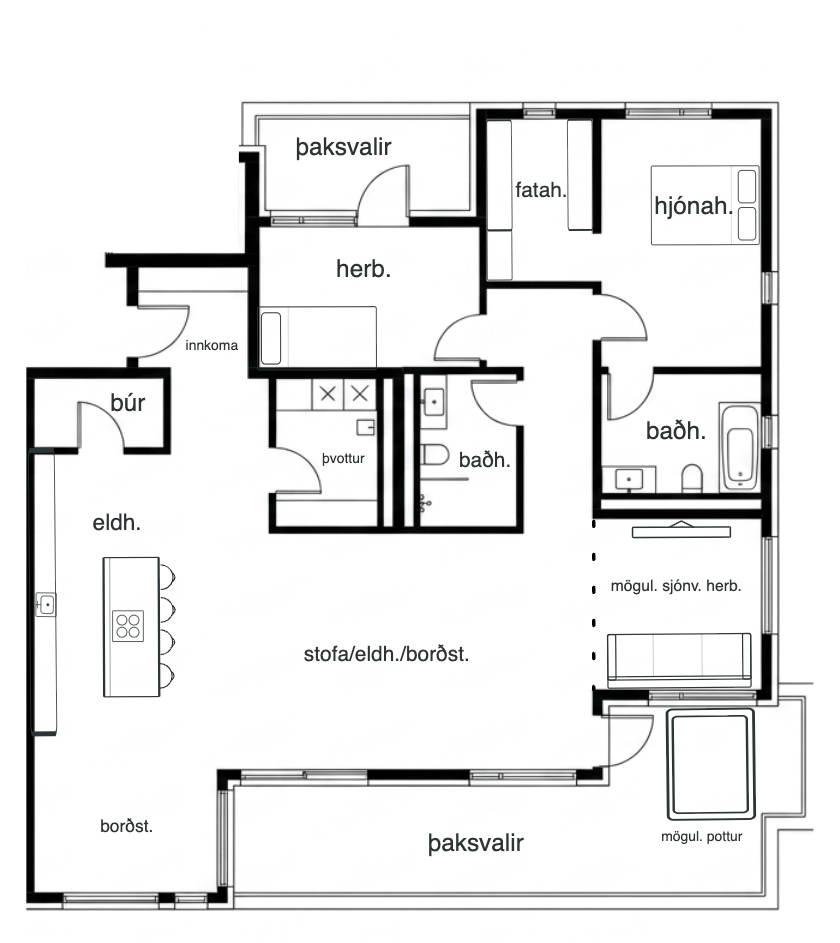
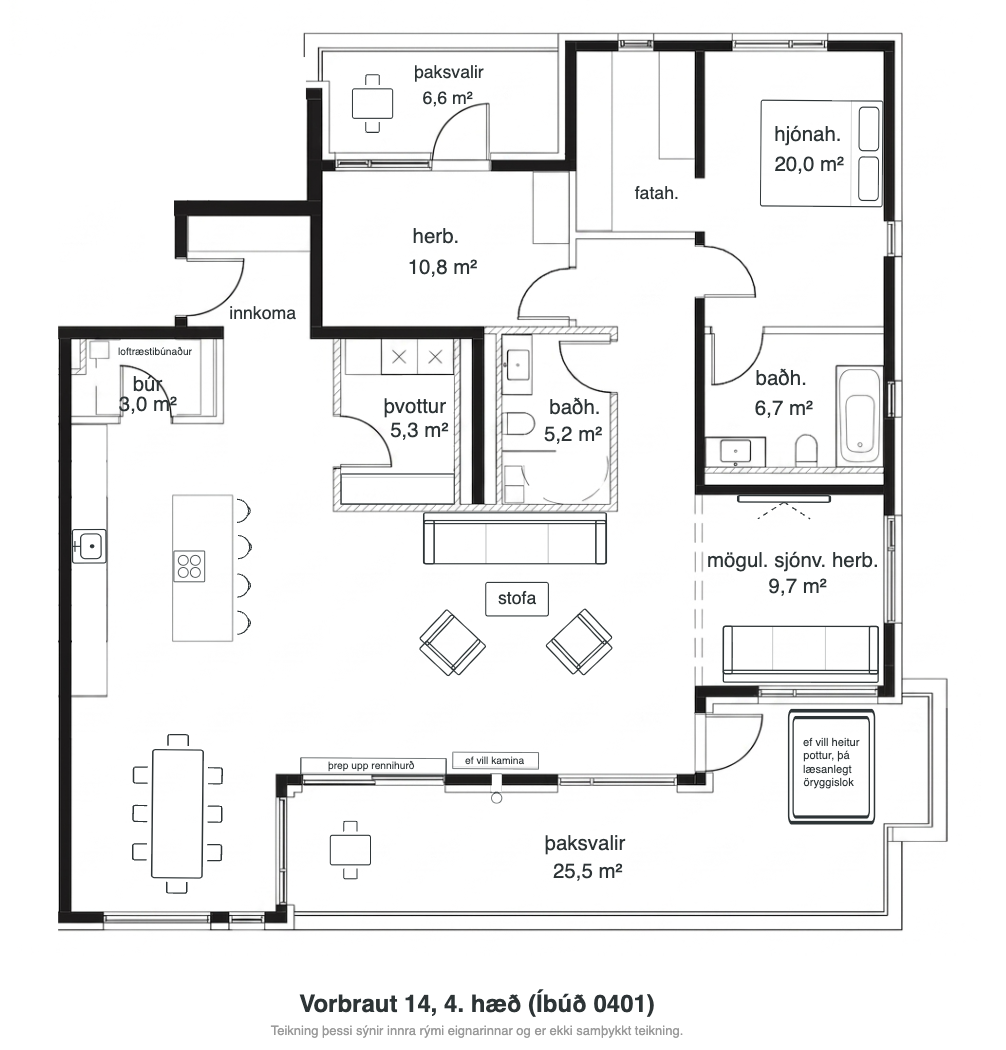
4. hæð: grunnmyndir með titilreit (þakíbúðir 0401–0402)
Lokahæðin: „með titli“-útgáfurnar (með fermetrum) fyrir þakíbúðirnar
0401 og 0402, sjálfvirkt skornar að efni. Áferðar-útgáfan (0402 „Með áferð“,
plans_tex/0401.png) er óbreytt og virkar áfram. Síðustu PLAN_ADJ færslurnar
fjarlægðar → allar 14 íbúðir nota nú sjálfgefið "contain". ?r=6 → ?r=7.

Claude-Session: https://claude.ai/code/session_012UErLvcLwX19G13qbaHqEy

Changed region(s): [[0.031, 0.0308, 0.9595, 1.0]]

diff --git a/index.html b/index.html
@@ -290,11 +290,11 @@
     <img id="planZoomImg" decoding="async" src="" alt="" />
   </div>
 
-  <script defer src="js/data.js?v=144"></script>
+  <script defer src="js/data.js?v=145"></script>
   <script defer src="js/content.js?v=142"></script>
   <script defer src="js/supabase-config.js?v=141"></script>
   <script defer src="js/vbsupa.js?v=141"></script>
-  <script defer src="js/app.js?v=144"></script>
+  <script defer src="js/app.js?v=145"></script>
   <script defer src="js/cine.js?v=146"></script>
   <!-- þróunartól (facade-/grunnmynda-ritlar) hlaðast AÐEINS þegar eigandinn bætir ?edit/?planedit/?mask við slóðina — gestir sækja ekkert -->
   <script>[['edit','calibrate'],['planedit','planedit'],['mask','maskedit']].forEach(function(p){if(new RegExp('[?&]'+p[0]+'\\b').test(location.search)){var s=document.createElement('script');s.src='js/'+p[1]+'.js?v=141';document.body.appendChild(s);}});</script>

diff --git a/js/data.js b/js/data.js
@@ -146,9 +146,7 @@ try {
    x/y = staðsetning efra-vinstra horns, w/h = stærð ramma — allt í % af reit.
    localStorage ('vb-planimg') yfirskrifar þetta á meðan verið er að fínstilla. */
 const PLAN_ADJ = {
-  // 1.–3. hæð (0101–0104, 0201–0204, 0301–0304): nýjar grunnmyndir (með titilreit) eru þétt-skornar → sjálfgefið "contain" passar best (engin handstilling).
-  '0401': { x: 4.6,   y: -1,   w: 90.2,  h: 87.6 },
-  '0402': { x: 1.8,   y: 1.4,  w: 91.6,  h: 83   },
+  // Allar nýjar grunnmyndir (1.–4. hæð, með titilreit) eru þétt-skornar að íbúðinni → sjálfgefið "contain" rammar þær rétt (engin handstilling).
 };
 try {
   const savedPA = JSON.parse(localStorage.getItem('vb-planimg') || 'null');

diff --git a/js/app.js b/js/app.js
@@ -399,7 +399,7 @@
   function applyPlanView() {
     const a = currentApt; if (!a) return;
     if (planView === 'tex' && a.tex) planImg.src = 'assets/plans_tex/' + a.tex + '?r=2';
-    else { planView = 'line'; planImg.src = 'assets/plans/' + a.plan + '?r=6'; }
+    else { planView = 'line'; planImg.src = 'assets/plans/' + a.plan + '?r=7'; }
     if (planView_el) $$('.aptm__pvbtn', planView_el).forEach((b) => b.classList.toggle('is-on', b.dataset.view === planView));
     requestAnimationFrame(() => setPlanFrame(a.id));
   }

diff --git a/js/planedit.js b/js/planedit.js
@@ -69,7 +69,7 @@
     const lbl = root.querySelector('.pe__planlbl');
     const file = selId && aptPlan[selId];
     if (file) {
-      const src = 'assets/plans/' + file + '?r=6';
+      const src = 'assets/plans/' + file + '?r=7';
       if (img.getAttribute('src') !== src) img.src = src;
       img.hidden = false; empty.hidden = true; lbl.textContent = 'Grunnmynd · íbúð ' + selId;
     } else {
